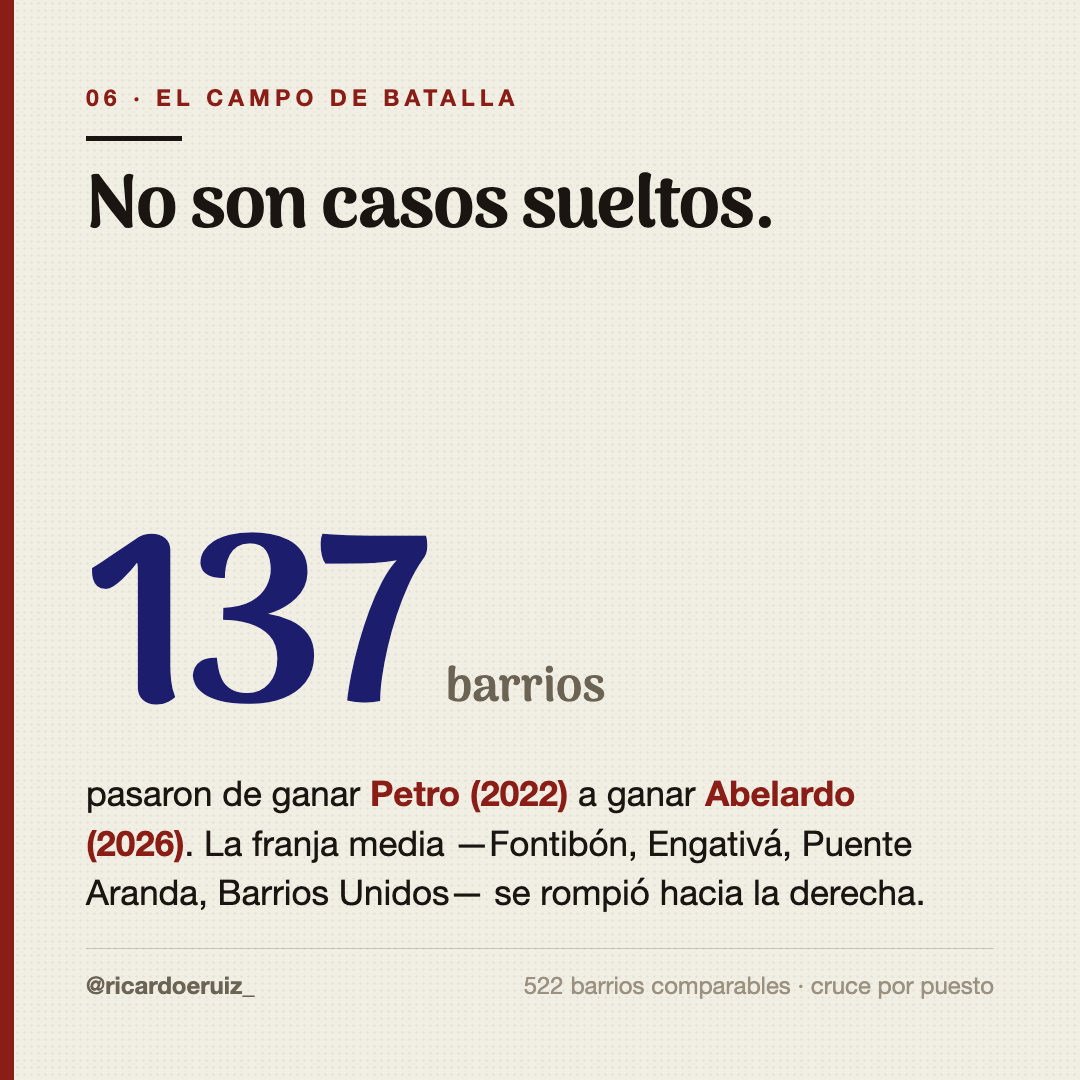
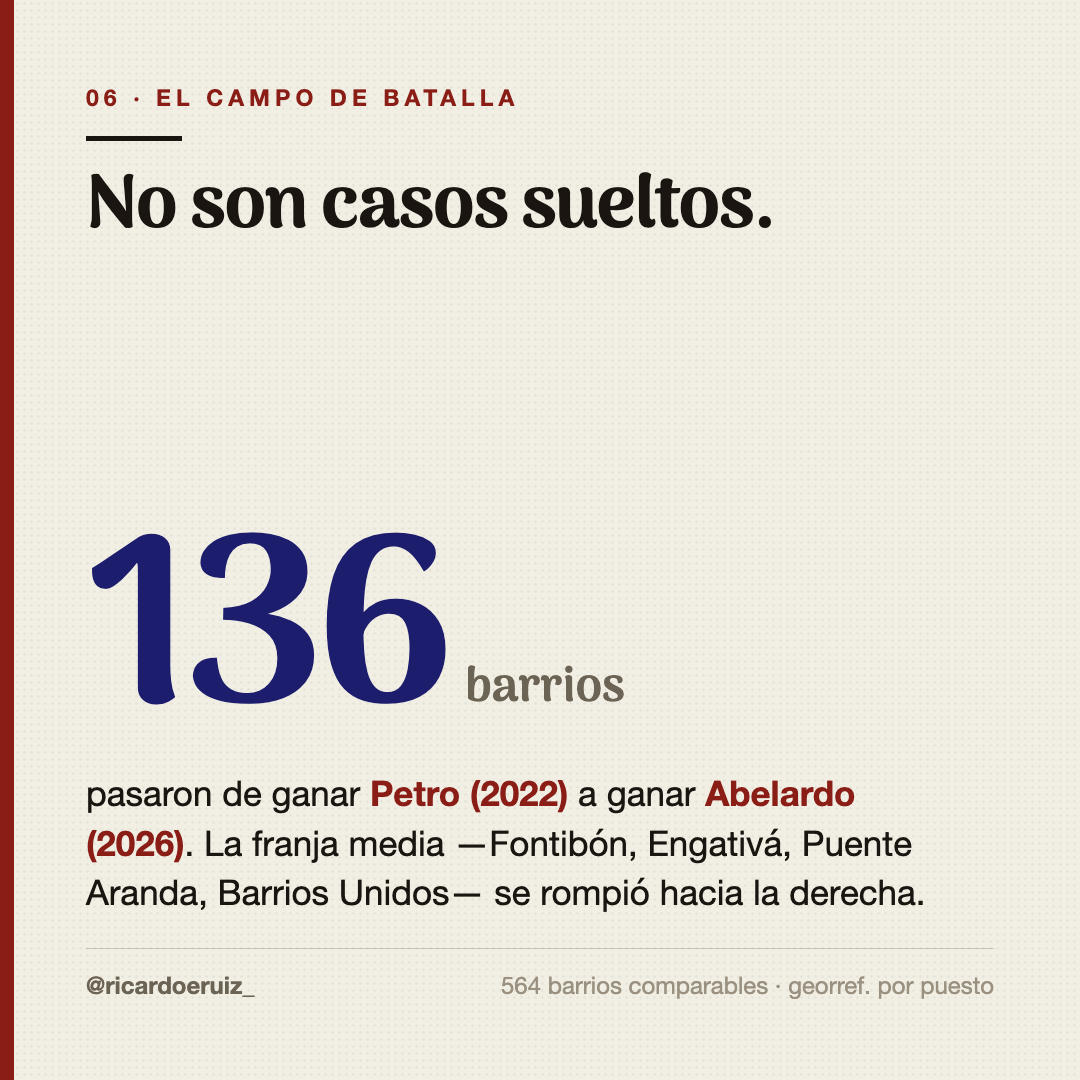
bogota-barrios: re-georreferenciar puesto→barrio por PIP + rellenar mapa web
El mapeo previo (por coincidencia de nombre) tenía 302/1045 puestos mal
asignados. Rehecho con punto-en-polígono sobre coordenadas reales (georef):
barrios con dato real suben de 558 a 625, correctamente ubicados (p. ej.
San Luis/Teusaquillo, La Magdalena, Teusaquillo). El mapa web ahora rellena
los barrios sin puesto con la tendencia del vecino (aeropuerto gris) y usa
azul/rojo de alto contraste. Cifras actualizadas en web, carrusel, noticia
e hilo (Cepeda 412 / Abelardo 213 barrios; 136 flips Petro→Abelardo).

Changed region(s): [[0.275, 0.4889, 0.5806, 0.6722], [0.4583, 0.8861, 0.7944, 0.9472]]

diff --git a/noticias.html b/noticias.html
@@ -169,9 +169,9 @@
       </div>
       <h2 class="article-title">El mapa de Bogotá, barrio por barrio: dónde ganó Cepeda y dónde ganó Abelardo en primera vuelta</h2>
       <div class="article-body">
-        <p>Bogotá votó <strong>Cepeda 41,3 % y Abelardo 37,4 %</strong> en la primera vuelta del 31 de mayo. Pero ese promedio esconde dos ciudades. Cruzando el preconteo por mesa de la Registraduría con la cartografía catastral oficial (1.001 barrios), llevamos el resultado al nivel más fino que existe: el barrio. <strong>Cepeda ganó 361 barrios; Abelardo, 196.</strong></p>
+        <p>Bogotá votó <strong>Cepeda 41,3 % y Abelardo 37,4 %</strong> en la primera vuelta del 31 de mayo. Pero ese promedio esconde dos ciudades. Cruzando el preconteo por mesa de la Registraduría con la cartografía catastral oficial (1.001 barrios), llevamos el resultado al nivel más fino que existe: el barrio. <strong>Cepeda ganó 412 barrios; Abelardo, 213.</strong></p>
         <p>El patrón es una divisoria norte–sur de manual. El norte y el nororiente acomodado se pintan de Abelardo — sus mejores barrios son Santa Bárbara, Mónaco y Molinos Norte, todos por encima del 63 %. El sur y el suroccidente popular se pintan de Cepeda — Villa Israel, El Tesoro, La Belleza y La Gloria, todos rondando el 67 %. El cruce ubica el 95,6 % de los votos de Bogotá en un barrio; las zonas especiales (Puesto Censo de Corferias y cárceles) se excluyen por no ser barrios reales.</p>
-        <p>Publicamos el <strong>mapa interactivo</strong>: cada uno de los 557 barrios con puesto de votación, coloreado por su ganador y con la intensidad según el margen. Pasas el cursor sobre cualquier barrio y ves su resultado completo — Abelardo, Cepeda, Paloma y total de votos.</p>
+        <p>Publicamos el <strong>mapa interactivo</strong>: cada uno de los 625 barrios con dato (más los que heredan la tendencia del vecino), coloreado por su ganador y con la intensidad según el margen. Pasas el cursor sobre cualquier barrio y ves su resultado completo — Abelardo, Cepeda, Paloma y total de votos.</p>
         <p style="margin-top:1.2rem;font-size:.92rem"><a href="bogota-1v-barrios.html" style="color:var(--blue);font-family:'Syne',sans-serif;font-weight:700;letter-spacing:.02em;border-bottom:1px solid var(--blue);padding-bottom:.1rem">Abrir el mapa interactivo de Bogotá por barrios →</a></p>
       </div>
     </article>

diff --git a/tools/trasvase-paloma/build_barrio_pip.py b/tools/trasvase-paloma/build_barrio_pip.py
@@ -1,0 +1,74 @@
+import csv, json, sys
+geo=json.load(open('/tmp/bogbar.json'))
+# bbox + rings por barrio para PIP rápido
+B=[]
+for f in geo['features']:
+    p=f['properties']; g=f['geometry']
+    polys = [g['coordinates']] if g['type']=='Polygon' else (g['coordinates'] if g['type']=='MultiPolygon' else [])
+    ext=[poly[0] for poly in polys]  # anillos exteriores
+    xs=[c[0] for ring in ext for c in ring]; ys=[c[1] for ring in ext for c in ring]
+    if not xs: continue
+    cx=sum(xs)/len(xs); cy=sum(ys)/len(ys)
+    B.append({'cod':p['codigo'],'nom':p.get('nombre'),'loc':p.get('loc_nombre'),
+              'ext':ext,'bb':(min(xs),min(ys),max(xs),max(ys)),'cx':cx,'cy':cy})
+def pip(lon,lat,ring):
+    inside=False; n=len(ring); j=n-1
+    for i in range(n):
+        xi,yi=ring[i][0],ring[i][1]; xj,yj=ring[j][0],ring[j][1]
+        if ((yi>lat)!=(yj>lat)) and (lon<(xj-xi)*(lat-yi)/(yj-yi)+xi): inside=not inside
+        j=i
+    return inside
+def barrio_pip(lon,lat):
+    for b in B:
+        x0,y0,x1,y1=b['bb']
+        if lon<x0 or lon>x1 or lat<y0 or lat>y1: continue
+        for ring in b['ext']:
+            if pip(lon,lat,ring): return b['cod']
+    # fuera de todo polígono → barrio más cercano por centroide
+    best=None;bd=1e18
+    for b in B:
+        d=(lon-b['cx'])**2+(lat-b['cy'])**2
+        if d<bd: bd=d; best=b['cod']
+    return best
+# georef Bogotá → key zona-puesto → barrio PIP
+newmap={}; ncoord=0; noutside=0
+with open('Bases de datos/PUESTOS_GEOREF.csv',encoding='utf-8-sig',errors='replace') as f:
+    rd=csv.reader(f,delimiter=';'); h=[c.strip() for c in next(rd)]; ix={c:i for i,c in enumerate(h)}
+    for r in rd:
+        if len(r)<=ix['LONGITUD'] or not (r[ix['DEPARTAMENTO']] or '').upper().startswith('BOGOT'): continue
+        z,p=r[ix['ZONA']],r[ix['PUESTO']]
+        try: lon=float(r[ix['LONGITUD']]); lat=float(r[ix['LATITUD']])
+        except: continue
+        if not lon or not lat: continue
+        try: key=f"{int(z):02d}-{int(p):02d}"
+        except: continue
+        cod=barrio_pip(lon,lat); newmap[key]=cod; ncoord+=1
+json.dump(newmap,open('Bases de datos/output_trasvase/bog-puesto-to-barrio-pip.json','w'))
+old=json.load(open('Bases de datos/output_ciudades/bogota/bog-puesto-to-barrio.json'))
+changed=sum(1 for k in newmap if old.get(k)!=newmap[k])
+print(f"Puestos georef mapeados (PIP): {ncoord} | cambian vs name-match: {changed}",file=sys.stderr)
+# re-agregar presidencial por el nuevo mapa
+CMAP=[('Abelardo De La Espriella','ab'),('Iván Cepeda','ce'),('Paloma Valencia','pa'),('Sergio Fajardo','sf'),
+('Santiago Botero','bo'),('Mauricio Lizcano','li'),('Miguel Uribe','mu'),('Sondra Macollins','ma'),
+('Roy Barreras','ro'),('Gilberto Murillo','gm'),('Carlos Caicedo','ca'),('Gustavo Matamoros','mt')]
+bmeta={b['cod']:(b['nom'],b['loc']) for b in B}
+agg={}
+with open('Bases de datos/nuevos archivos 1v 2026/PRECONTEO_1V_2026_MESA_nombres_corregidos.csv',encoding='utf-8-sig') as f:
+    for r in csv.DictReader(f):
+        if r['cod_departamento']!='16': continue
+        try: key=f"{int(r['zona']):02d}-{int(r['puesto']):02d}"
+        except: continue
+        bc=newmap.get(key)
+        if not bc: continue
+        a=agg.setdefault(bc,{k:0 for _,k in CMAP}|{'bl':0,'nu':0,'nm':0,'urna':0})
+        for col,k in CMAP: a[k]+=int(r[col]or 0)
+        a['bl']+=int(r['votos_blanco']or 0);a['nu']+=int(r['votos_nulos']or 0);a['nm']+=int(r['votos_no_marcados']or 0);a['urna']+=int(r['total_votos_urna']or 0)
+for bc,a in agg.items(): a['cl']=a['urna']-(sum(a[k] for _,k in CMAP)+a['bl']+a['nu']+a['nm'])
+CAND={'ab':'Abelardo','ce':'Cepeda','pa':'Paloma','sf':'Fajardo','cl':'Claudia','bo':'Botero'}
+import collections; wins=collections.Counter(); out={}
+for bc,a in agg.items():
+    if a['urna']<1: continue
+    cv={k:a[k] for k in CAND}; win=max(cv,key=cv.get); wins[CAND[win]]+=1
+    out[bc]={'n':bmeta.get(bc,('?',''))[0],'loc':bmeta.get(bc,('','?'))[1],'ab':a['ab'],'ce':a['ce'],'pa':a['pa'],'sf':a['sf'],'cl':a['cl'],'urna':a['urna'],'win':CAND[win],'winpct':round(100*cv[win]/a['urna'],1)}
+json.dump(out,open('Bases de datos/output_trasvase/bogota-1v-por-barrio.json','w'),ensure_ascii=False)
+print(f"Barrios con dato REAL: {len(out)} (antes 558) | ganados: {dict(wins)}",file=sys.stderr)

diff --git a/rrss/twitter/hilo-bogota-barrios.md b/rrss/twitter/hilo-bogota-barrios.md
@@ -20,13 +20,13 @@ Fuente: preconteo Registraduría 1V × cartografía catastral; comparación con 
 → Hipotecho (Kennedy): 55 % → 32 %
 → Galerías (Teusaquillo): 67 % → 46 %
 
-**7/** No son casos sueltos: **137 barrios pasaron de ganar Petro (2022) a ganar Abelardo (2026)**. La franja media —Fontibón, Engativá, Puente Aranda, Barrios Unidos— fue el verdadero campo de batalla, y se rompió hacia la derecha.
+**7/** No son casos sueltos: **136 barrios pasaron de ganar Petro (2022) a ganar Abelardo (2026)**. La franja media —Fontibón, Engativá, Puente Aranda, Barrios Unidos— fue el verdadero campo de batalla, y se rompió hacia la derecha.
 
 **8/** Pero el piso de la izquierda aguantó. En el sur profundo Cepeda igualó o superó a Petro: Desarrollo Brazuelos (Petro 68 → Cepeda 70), La Gloria, Argelia. E incluso creció donde era débil, como El Campín (+8 pp).
 
 **9/** El mapa de Bogotá 2026 es, en el fondo, un **mapa de ingreso**: norte rico → Abelardo, sur popular → Cepeda, las cuadras de élite → Paloma. Y el centro de la ciudad, que define la elección, se corrió a la derecha.
 
-**10/** Todo el mapa interactivo —557 barrios, pasa el cursor y ves cada resultado— y la metodología (preconteo por mesa × cartografía catastral):
+**10/** Todo el mapa interactivo —625 barrios, pasa el cursor y ves cada resultado— y la metodología (preconteo por mesa × cartografía catastral):
 👉 ricardoruiz.co/bogota-1v-barrios.html
 
 ---